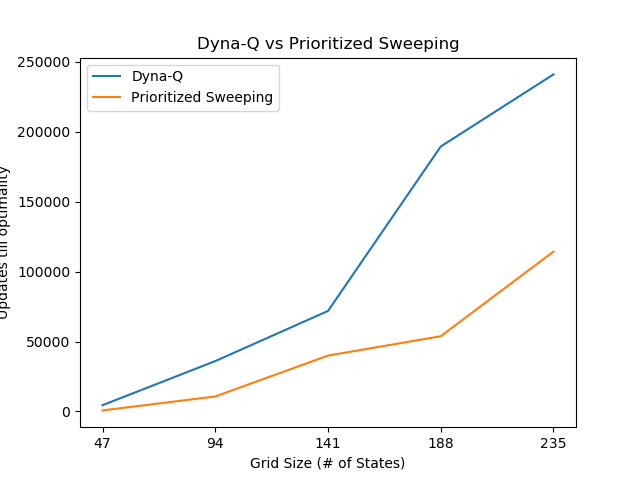
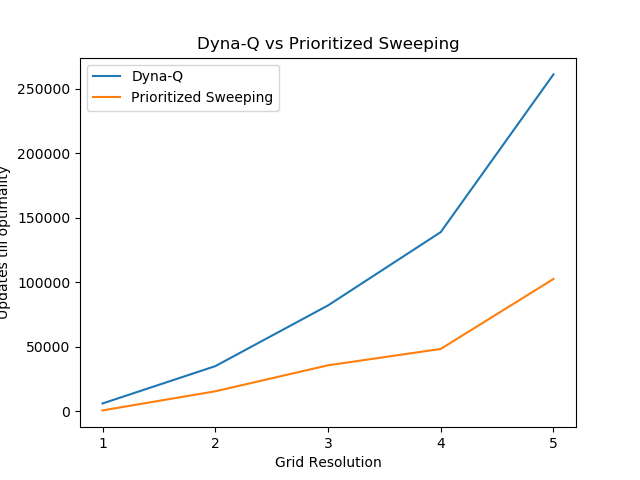
Fixed Errors

diff --git a/Chapter 8/Examples, Codes and Figures/Example 8.4/example_8_4.py b/Chapter 8/Examples, Codes and Figures/Example 8.4/example_8_4.py
@@ -401,7 +401,7 @@ def Main():
 	stepsPriority/=runs
 	stepsDyna/=runs
 
-	X=[47*i for i in range(1,6)]
+	X=[47*i*i for i in range(1,6)]
 
 	plt.plot(X, stepsDyna, label='Dyna-Q')
 	plt.plot(X, stepsPriority, label='Prioritized Sweeping')
@@ -413,7 +413,7 @@ def Main():
 
 	plt.legend()
 
-	plt.savefig('example_8_4.png')
+	plt.savefig('{}_runs.png'.format(runs))
 	plt.close()
 
 Main()
